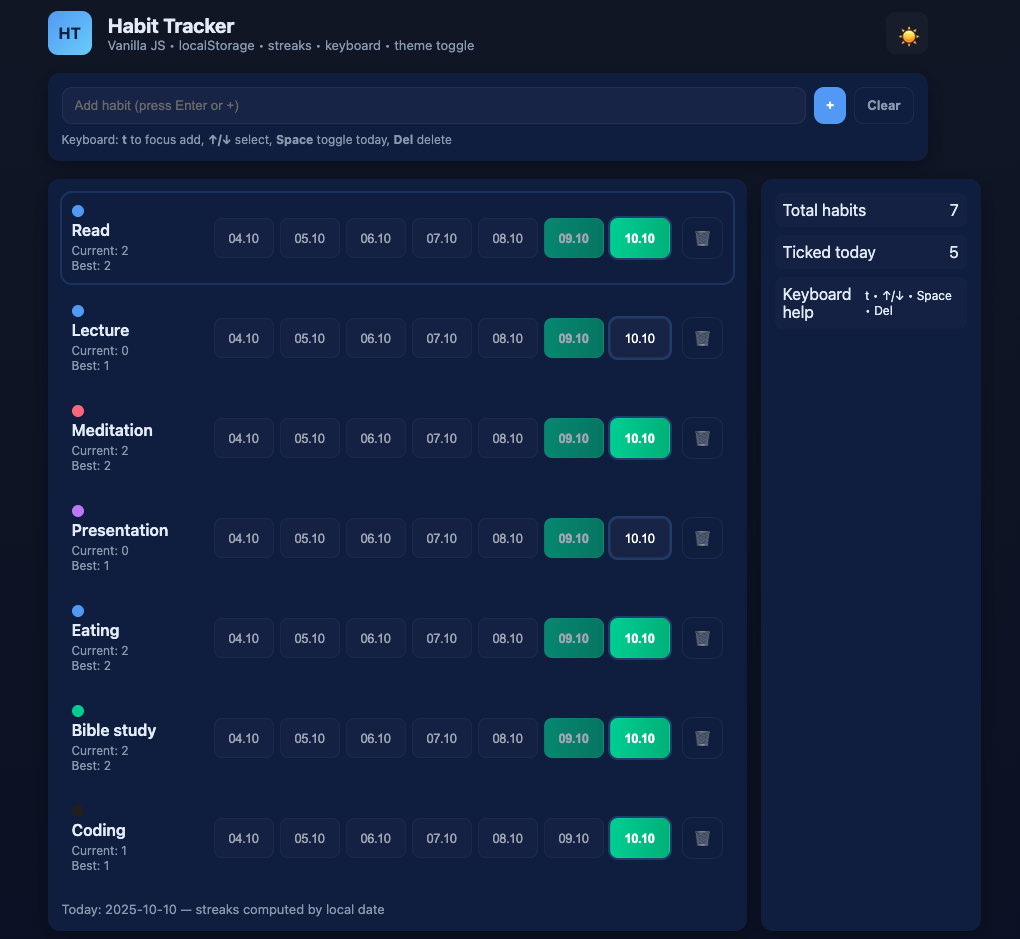
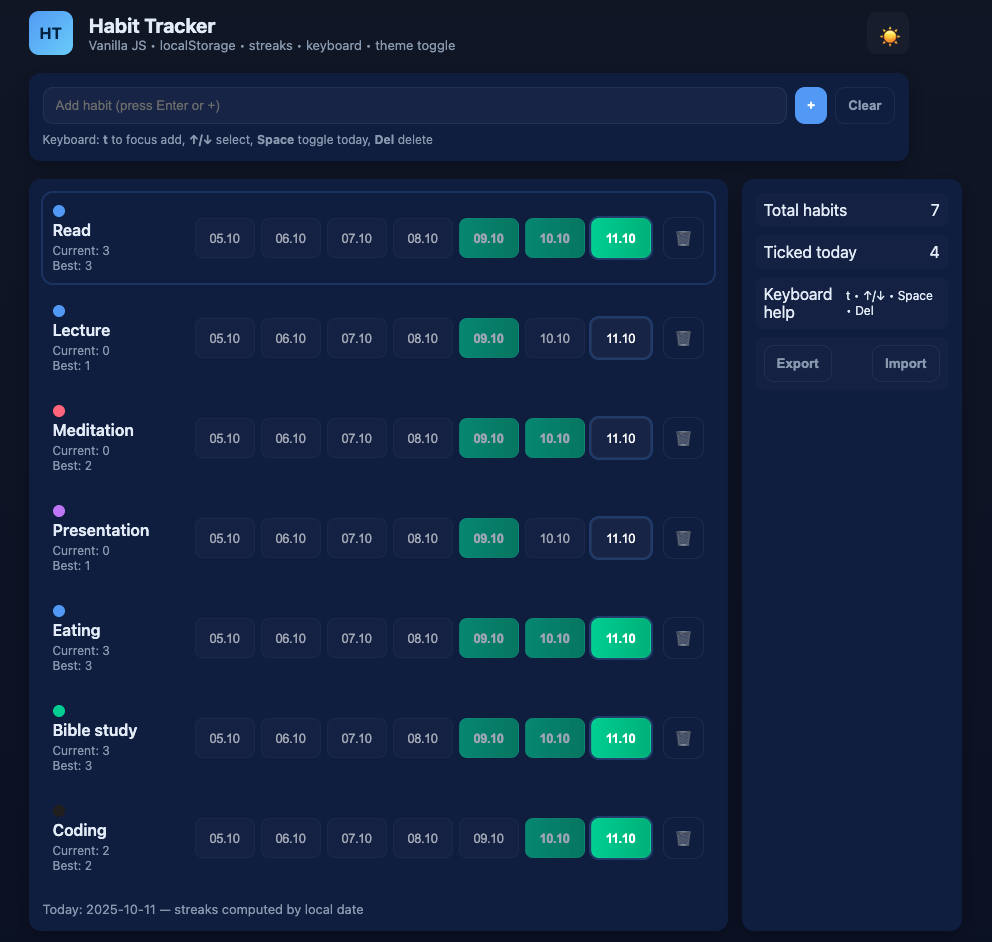
Creates export and import functionality and updated README file

diff --git a/js/tracker.js b/js/tracker.js
@@ -9,6 +9,12 @@ const ticked = document.getElementById("ticked");
 const themeBtn = document.getElementById("themeToggle");
 const todayStr = document.getElementById("todayStr");
 
+// ---- CSV Export / Import ----
+const exportBtn = document.getElementById("exportBtn");
+const importBtn = document.getElementById("importBtn");
+const importFile = document.getElementById("importFile");
+//
+
 const KEY = "habit-tracker:v2";
 const THEME_KEY = "habit-tracker:theme";
 
@@ -42,7 +48,7 @@ function randomizeTheColor() {
     "#c084fc",
     "#f472b6",
     "#242121ff",
-    "#7e8b1b58"
+    "#7e8b1b58",
   ];
   return c[Math.floor(Math.random() * c.length)];
 }
@@ -67,7 +73,7 @@ function escapeHtml(s) {
 
 // Utils
 const isoDate = (d = new Date()) => {
-  return d.toLocaleDateString("en-CA", { timeZone: "Europe/Helsinki"}); // YYYY-MM-DD in Finland time
+  return d.toLocaleDateString("en-CA", { timeZone: "Europe/Helsinki" }); // YYYY-MM-DD in Finland time
 };
 
 const TODAY = () => isoDate();
@@ -273,6 +279,79 @@ function focusSel() {
   if (rows[selectedIndex]) rows[selectedIndex].focus();
 }
 //////
+
+// For Exporting and importing habits as CSV file
+
+function exportCSV() {
+  const rows = [["id", "name", "color", "ticks"]];
+  for (const h of state.habits) {
+    rows.push([
+      h.id,
+      `"${h.name.replace(/"/g, '""')}"`,
+      h.color,
+      h.ticks.join(";"),
+    ]);
+  }
+  const csv = rows.map((r) => r.join(",")).join("\n");
+  const blob = new Blob([csv], { type: "text/csv" });
+  const url = URL.createObjectURL(blob);
+
+  const a = document.createElement("a");
+  a.href = url;
+  a.download = "habits.csv";
+  a.click();
+  URL.revokeObjectURL(url);
+}
+
+// For Parsing CSV text → habits
+function parseCSV(text) {
+  const lines = text.trim().split("\n").slice(1);
+  const imported = [];
+  for (const line of lines) {
+    const parts = line.match(/(".*?"|[^,]+)(?=,|$)/g);
+    if (!parts || parts.length < 4) continue;
+    const [id, name, color, ticksStr] = parts;
+    imported.push({
+      id: id.replace(/"/g, ""),
+      name: name.replace(/^"|"$/g, "").replace(/""/g, '"'),
+      color,
+      ticks: ticksStr ? ticksStr.split(";") : [],
+    });
+  }
+  return imported;
+}
+
+// Merge imported habits (preserving existing)
+function mergeHabits(imported) {
+  const existing = new Map(state.habits.map((h) => [h.name, h]));
+  for (const h of imported) {
+    if (existing.has(h.name)) {
+      // merge ticks
+      const existingHabit = existing.get(h.name);
+      const set = new Set([...existingHabit.ticks, ...h.ticks]);
+      existingHabit.ticks = Array.from(set).sort();
+    } else {
+      state.habits.push(h);
+    }
+  }
+  save();
+  render();
+}
+
+// Button actions
+exportBtn.onclick = exportCSV;
+importBtn.onclick = () => importFile.click();
+
+importFile.onchange = async (e) => {
+  const file = e.target.files[0];
+  if (!file) return;
+  const text = await file.text();
+  const imported = parseCSV(text);
+  mergeHabits(imported);
+  alert(`Imported ${imported.length} habits (merged if same name).`);
+};
+///
+
 // Init
 load();
 render();

diff --git a/index.html b/index.html
@@ -61,10 +61,20 @@
             <div>Keyboard help</div>
             <div class="small">t • ↑/↓ • Space • Del</div>
           </div>
-          <!-- <div class="stat">
-            <div>Static deploy</div>
-            <div class="small">Upload all files to a static host</div>
-          </div> -->
+          <div class="stat">
+            <button id="exportBtn" class="clear" title="Export CSV">
+              Export
+            </button>
+            <input
+              type="file"
+              id="importFile"
+              accept=".csv"
+              style="display: none"
+            />
+            <button id="importBtn" class="clear" title="Import CSV">
+              Import
+            </button>
+          </div>
         </aside>
       </div>
     </div>

diff --git a/assets/tracker.css b/assets/tracker.css
@@ -290,6 +290,14 @@ h1 {
   }
 }
 
+/* For export and import csv */
+.csv-tools {
+  display: flex;
+  gap: 8px;
+  margin-top: 8px;
+}
+
+
 footer {
   margin-top: 18px;
   color: var(--muted);

diff --git a/README.md b/README.md
@@ -131,6 +131,53 @@ habit-tracker/
   * The preference is saved automatically.
 
 ---
+## 📤 Exporting Habits (CSV)
+- Export all the habits (including streak data) to a **.csv** file for backup or sharing.
+
+### How to Export:
+- Click the Export button.
+  * A file named habits.csv will be downloaded automatically.
+  * It includes:
+    ```bash
+      id,name,color,ticks
+      1,"Drink Water",#34d399,2025-10-08;2025-10-09
+      2,"Read Book",#60a5fa,2025-10-07
+    ```
+  * Note: Ticks are dates (ISO format) separated by ;.
+
+## 📥 Importing Habits (CSV)
+- Import a **.csv** file (previously exported or shared).
+- When importing, data merges intelligently:
+
+| Case | Behavior |
+|-------------|--------------|
+| Habit with same name exists | Merges tick dates (no duplicates) |
+| Habit is new | Added as a new entry |
+
+### How to Import:
+- Click the Import button.
+  * Select your .csv file.
+  * Wait for the confirmation message.
+  * Imported habits appear merged with existing ones.
+
+### ✅ Example:
+- Existing habit “Drink Water” has ticks on 2025-10-08.
+- Imported file has “Drink Water” ticked on 2025-10-09.
+- After import → habit shows **both** days ticked.
+
+##  CSV Format Specification
+| Column | Description |
+|-------------|--------------|
+| id | nique identifier (string or UUID) |
+| name | abit name (string) |
+| color | ex color code |
+| ticks | Semicolon-separated list of ISO dates |
+
+### Example row:
+```js
+  1,"Coding",#242121ff,2025-10-010;2025-10-11
+```
+![CSV file](/img/CSV.png)
 
 ## 📸 Screenshots
 
